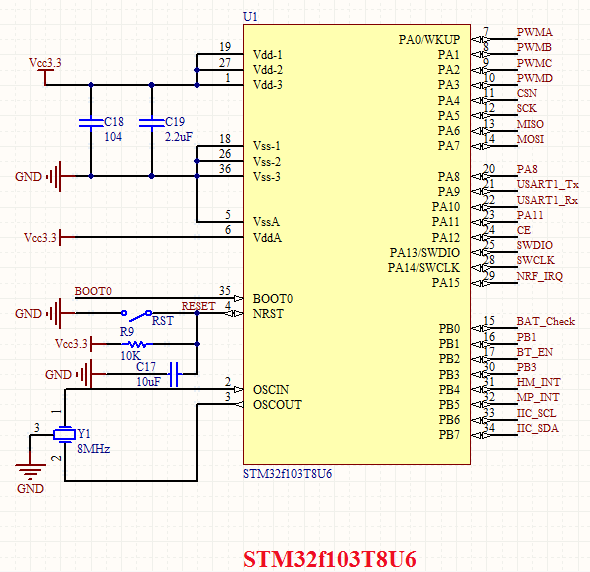
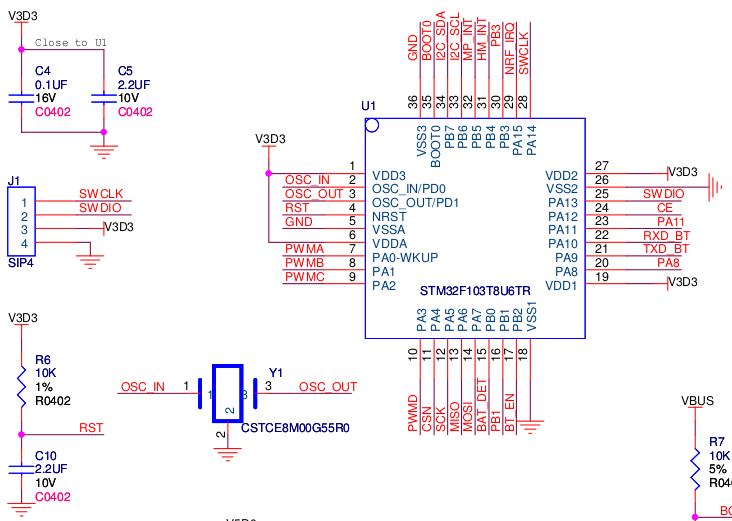
* 修改关于STM32启动启动模式选择的wiki

diff --git a/wiki/hardware-base.md b/wiki/hardware-base.md
@@ -36,27 +36,15 @@ Crazepony硬件组成：
 
 ![](/assets/img/hardware-1.png)
 
-STM32的最小系统一般包括：复位电路，外部时钟电路，启动模式选择电路，电源退偶电路等
+STM32的最小系统包括复位电路，外部时钟电路，启动模式选择电路，电源退偶电路等
 
 **复位**
 
-![](/assets/img/hardware-2.png)
-
-查阅意法半导的官方手册可以知道，STM32系列单片机都是低电平复位。于是采用如图的主流复位电路作为Crazepony主控的复位电路
+查阅意法半导的官方手册可以知道，STM32系列单片机都是低电平复位，对应芯片上的NRST引脚。在最新的Crazepony上，去掉了复位按钮，只能够通过开关上断电进行复位。STM32的复位引脚NRST接到了USB串口芯片CP2102上，作用和原理在其中模式部分会详细介绍。
 
 **外部时钟**
 
-官方手册有写，外部时钟我们采用的是8M无源晶振。单片机内部做倍频，系统时钟最高可达到72M
-
-**启动模式**
-
-STM32的启动模式分为三种，可以下面的表格给出：
-
-![](/assets/img/hardware-3.png)
-
-由于为了方便用户调试和二次开发，所以Crazepony采用了SWD在线程序调试接口和ISP程序下载两种方式。SWD调试接口可以使用编译调试器在线对程序进行仿真、调试、下载，这对开发人员来说是很方便的，缺点就是需要PC端有一个这样的软件来支撑。串口ISP下载方式，只需要STM32的UART1的两个数据 线，就能将编译生成的*.HEX文件烧写进单片机，不足之处是不能仿真程序。
-
-关于启动模式的应用，在USB-Serial处会有介绍。
+官方手册有写，外部时钟我们采用的是8M无源晶振。单片机内部做倍频，系统时钟最高可达到72M。
 
 **电源退偶**
 
@@ -66,6 +54,9 @@ STM32的启动模式分为三种，可以下面的表格给出：
 
 我们都知道，电容对频率越高的信号，呈现低阻特性，对直流呈现高阻特性。那么电源上的噪声对地平面而言，就是一个交流信号，交流信号就能通过电容到达地平面，而电源是一个直流，电容对他呈现出无限大的阻力，无法通过。这样，我们用示波器就可以看到，加了退偶电容的电源会比没加退偶电容的电源，波形要稳定得多。
 
+**启动模式选择电路**
+
+该部分内容到USB串口部分讲解。
 
 ## 系统电源
 
@@ -137,23 +128,34 @@ Crazepony在选择通信芯片上，也是选择了大家熟悉的芯片，NRF24
 
 ![](/assets/img/hardware-10.png)
 
-## USB-Serial协议转换
+## USB串口模块
 
-前面已经说了启动模式的切换会在下载程序时用到。
+使用USB串口芯片CP2102实现，使用该USB接口实现4个功能：固件下载，充电，串口调试信息，上位机通信。
 
-Crazepony在设计之初，就考虑到了，一般用户PC机上是不会装像KEIL这种软件的，但是所有的PC机都有USB接口，那么在机身上集成一个USB-Serial协议转换芯片，那么就能够直接用一根micro USB的数据线（就是现在统一的安卓手机数据/充电线）对飞机进行固件（*.HEX）升级了，这种方式真是太棒了。
+这里重点介绍通过USB接口进行固件下载，这涉及到STM32的三种启动模式，可以下面的表格给出：
 
-试想，你的电脑里原来都是跟你工作相关的文件或者是软件，今天你买来一台Crazepony，里面的固件虽然已经很优秀了，但是我们一直在完善它，突然有一天，我们告诉你，我们的固件升级了，你可以选择更新固件。那么，现在有两种方式供你选择来升级你的飞机：第一，你需要装一个叫做KEIL或者IAR或者其他类似的专业软件，还得在淘宝买一个你看都看不懂的jlink调试器。第二，你只需要将你的安卓手机线拿出来，插上电脑，打开我们的一键升级软件。这两种方式，我想大家都会选择第二种吧。
+![](/assets/img/hardware-3.png)
 
-那么，要实现第二种方式，我们就需要用到启动方式的切换来实现。
+* BOOT0=0，从用户闪存启动，就是指从用户烧入STM32的Flash的固件启动。
+* BOOT0=1，BOOT1=0，从系统存储器启动。系统存储器是指STM32出厂时就带有的一小段程序，相当于出厂时内置的Bootloader。这段程序可以从串口接收数据，并且烧入到用户闪存中。这就是从USB接口进行固件下载的原理。这种下载固件方式一般叫做串口ISP下载。
+* BOOT0=1，BOOT1=0，从内置SRAM启动。暂时不清楚该启动模式的原理。
 
-![](/assets/img/hardware-11.png)
+Crazepony使用的STM32F103T8U6型号芯片，BOOT0为第35号引脚，BOOT1为第17号引脚（该引脚被复用为普通GPIO口PB2）。
 
-我们可以看到PNP型三极管Q5的基极是和复位按键连接的，PNP型三极管是基极低电平导通。Q5的发射极是和电源连接，集电极是和BOOT0连接。显然，BOOT0的电位高低，是跟复位按键是否按下直接相关的，同时我们有上面的铺垫也知道，BOOT0=1，BOOT1=1时，STM32从内部闪存开始启动，用于程序调试用。复位按键按下之前，BOOT0=0（内部下拉），复位按键按下以后，BOOT0=1，复位后，间隔四个时钟周期后采样BOOT0的电平，如果是高电平，那么进入调试模式，开始接收串口发送的程序代码，存放在内部的Flash中，下载完毕以后，软件复位，此时复位按键肯定已经弹起了，四个时钟周期以后采样BOOT0，此时是低电平，进入正常模式，这样就完成了一次ISP下载。
+> ISP是在系统编程的英文缩写（In-System Programming）。简单的说，可以不用插拔芯片，也不需要编程器，就可以在你的目标应用板（有单片机的电路板）上直接编程，作程序改动调试。
 
-这样一来，机身和外部的有线接口就只有一根安卓手机的标配数据线micro USB线。它既是充电线，也是调参、烧写固件的数据线。这对大妈来说，想必操作也是很简单的吧。
+Crazepony支持SWD在线程序调试接口和串口ISP程序下载两种方式。SWD调试接口可以使用编译调试器（也就是JLink或者STLink）在线对程序进行仿真、调试、下载，这对开发人员来说是很方便的，缺点就是需要额外的调试器（JLink或者STLink）以及PC端软件（Keil）来支撑。串口ISP下载方式，只需要STM32的UART1的两个数据线，就能将编译生成固件（如HEX或者bin文件）烧写进单片机，不足之处是不能仿真调试程序。
 
-有了USB-Serial的转换，那么我们的飞机和PC上位机的通信就有了必要的硬件基础。
+
+试想，你的电脑里原来都是跟你工作相关的文件或者是软件。现在你买来一台Crazepony小四轴，里面的固件虽然已经很优秀了，但是我们一直在完善它，突然有一天，我们告诉你，我们的固件升级了，你可以选择更新固件。那么，现在有两种方式供你选择来升级你的飞机：第一，你需要装一个叫做KEIL的专业软件，还得在淘宝买一个你看都看不懂的JLink调试器。第二，你只需要将你的安卓手机线拿出来，插上电脑，打开我们的一键升级软件。这两种方式，我想大家都会选择第二种吧。
+
+那么在机身上集成一个USB串口协议转换芯片，那么就能够直接用一根Micro USB的数据线（就是现在统一的安卓手机数据/充电线）对飞机进行固件（HEX）升级了，这种方式真是太棒了。
+
+![](/assets/img/hardware-2.png)
+
+我们可以看到CP2102的DTR引脚通过Q1三极管控制BOOT0的电平，CP2102的RTS引脚控制STM32的复位引脚NRST。通过查看CP2102的芯片手册可以知道，只有在激活状态（可以同通过CP2102驱动程序控制，也就是PC上的烧写软件MCUISP）下DTR和RTS才是低电平，其它时候都是高电平。点击烧写软件MCUISP上的烧写按钮，CP2102的DTR引脚和RTS引脚同时拉低，这时候BOOT0=1，STM32芯片被复位，间隔四个时钟周期后采样BOOT0的电平为高，BOOT1电平为低，进入从系统存储器启动，开始接收串口发送的固件数据，烧入到用户内存中。
+
+有了USB串口转换，那么我们的飞机和PC之间通信就有了必要的硬件基础。机身和外部的有线接口就只要一根安卓手机的标配数据线micro USB线。它既是充电线，也是调参、烧写固件的数据线。这对大妈来说，想必操作也是很简单的吧。
 
 ## 蓝牙透传模块
 
